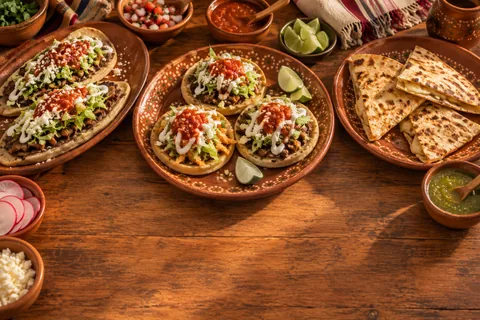
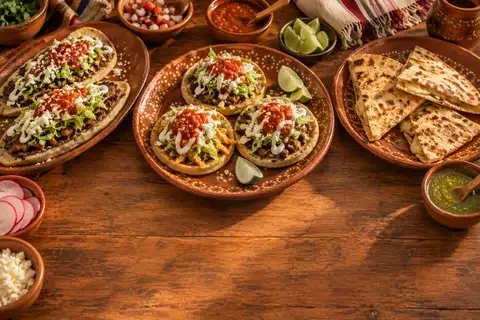
Fotos (#82): servirlas redimensionadas desde el almacenamiento
La portada de una ficha era un PNG de 1.2 MB servido tal cual: en 4G tardaba
26 s en verse. Ahora:

- lib/imagenes.js pide cada foto del almacenamiento por /render/image/ con
  ancho y calidad (Supabase redimensiona y entrega WebP o AVIF), y
  propsDeFoto arma src, srcSet y sizes. Arregla también lo ya subido.
- Lo usan la ficha (portada, favoritos y su visor), la carta de archivo, las
  tarjetas de resultados, historias, publicaciones, avisos, el avatar y las
  miniaturas del panel.
- La portada del sitio sirve hero-640/960/1280/1920.webp en srcset
  (scripts/generar-portada.mjs) y con prioridad alta; las fotos de categoría
  se recomprimen (248 → 161 KB).
- Lo que queda debajo de la portada se pide a 720 como máximo, y el layout
  abre la conexión al almacenamiento con preconnect.

Medido en un Pixel 7 a 1.6 Mbps y 150 ms, contra el build local con la base
real: ficha 26 s → 2.2–2.7 s, portada 5.2–5.9 s → 2.4–2.7 s, carta ~1 s.

Claude-Session: https://claude.ai/code/session_01UvkkXKQJh8aTfASbZcjEjs

diff --git a/lib/imagenes.js b/lib/imagenes.js
@@ -1,0 +1,52 @@
+// Las fotos que suben los dueños y los comensales se guardan tal cual: un PNG
+// de celular pesa más de un mega, y servirlo así en una ficha tardaba más de
+// veinte segundos en 4G (#82). El almacenamiento de Supabase las redimensiona
+// al vuelo: la misma ruta bajo /render/image/ en vez de /object/ devuelve la
+// foto al ancho pedido y, si el navegador lo acepta, en WebP o AVIF. Así se
+// arreglan también las fotos que ya estaban subidas, sin volver a subir nada.
+//
+// Supabase no agranda: pedir 1440 de una foto de 861 px devuelve los 861, así
+// que un ancho de más en el srcset no cuesta nada.
+//
+// Lo que no viene del almacenamiento (las fotos de /public, la vista previa
+// de un archivo recién elegido) pasa sin tocar.
+
+const PUBLICA = "/storage/v1/object/public/";
+const TRANSFORMADA = "/storage/v1/render/image/public/";
+
+export const ANCHOS = [480, 960, 1440];
+export const CALIDAD = 70;
+
+export function esDelAlmacenamiento(url) {
+  return typeof url === "string" && url.includes(PUBLICA);
+}
+
+export function urlTransformada(url, ancho, calidad = CALIDAD) {
+  if (!esDelAlmacenamiento(url)) return url;
+  const u = new URL(url.replace(PUBLICA, TRANSFORMADA));
+  u.searchParams.set("width", String(ancho));
+  u.searchParams.set("quality", String(calidad));
+  return u.toString();
+}
+
+/**
+ * Los atributos de un <img> para una foto: `src`, y `srcSet` y `sizes` cuando
+ * hay más de un ancho. `sizes` dice qué tan ancha se ve la foto en la página;
+ * sin él, el navegador asume que ocupa toda la pantalla.
+ */
+export function propsDeFoto(url, { anchos = ANCHOS, calidad = CALIDAD, sizes } = {}) {
+  if (!url) return {};
+  if (!esDelAlmacenamiento(url)) return { src: url };
+
+  const lista = [...new Set(anchos)].sort((a, b) => a - b);
+  if (lista.length === 1) return { src: urlTransformada(url, lista[0], calidad) };
+
+  // El src es para el navegador que no entiende srcset: el ancho de en medio
+  // se ve bien en un celular y no pesa de más en una computadora.
+  const respaldo = lista[Math.floor((lista.length - 1) / 2)];
+  return {
+    src: urlTransformada(url, respaldo, calidad),
+    srcSet: lista.map((a) => `${urlTransformada(url, a, calidad)} ${a}w`).join(", "),
+    ...(sizes ? { sizes } : {}),
+  };
+}

diff --git a/app/_ficha/favoritos.js b/app/_ficha/favoritos.js
@@ -6,6 +6,7 @@ import Modal from "../panel/modal";
 import { pesos } from "../../lib/precios";
 import { rutaMenuCarta } from "../../lib/slug";
 import { IconoChevron, IconoFlecha } from "./iconos";
+import { propsDeFoto } from "../../lib/imagenes";
 
 // "Favoritos de la casa": las fotos grandes bajo el encabezado.
 //
@@ -58,7 +59,12 @@ export default function Favoritos({ slug, nombre, fotos, hayMenu, hrefMenu }) {
                   f.dishName ? `Ver ${f.dishName}` : `Ver foto ${f.alt ? `de ${f.alt}` : "del platillo"}`
                 }
               >
-                <img src={f.url} alt={f.alt ?? f.dishName ?? ""} loading="lazy" />
+                <img
+                  {...propsDeFoto(f.url, { anchos: [480, 720], calidad: 60, sizes: "(max-width: 720px) 82vw, 33vw" })}
+                  alt={f.alt ?? f.dishName ?? ""}
+                  loading="lazy"
+                  decoding="async"
+                />
                 {f.dishName ? (
                   <span className="fx-favorito-franja">
                     <span className="fx-favorito-texto">
@@ -83,7 +89,10 @@ export default function Favoritos({ slug, nombre, fotos, hayMenu, hrefMenu }) {
       >
         {abierta ? (
           <div className="fx-favorito-visor">
-            <img src={abierta.url} alt={abierta.alt ?? abierta.dishName ?? ""} />
+            <img
+              {...propsDeFoto(abierta.url, { sizes: "(max-width: 720px) 100vw, 720px" })}
+              alt={abierta.alt ?? abierta.dishName ?? ""}
+            />
             <div className="fx-favorito-visor-datos">
               {abierta.dishLabel ? (
                 <span className="fx-favorito-etiqueta">{abierta.dishLabel}</span>

diff --git a/app/page.js b/app/page.js
@@ -1,5 +1,6 @@
 import Link from "next/link";
-import { fotoCocina, fotoEncabezado } from "../lib/fotos";
+import { fotoCocina, propsEncabezado } from "../lib/fotos";
+import { propsDeFoto } from "../lib/imagenes";
 import { supabaseServer } from "../lib/supabase";
 import { conFotos, guardadosDe } from "../lib/busqueda";
 import { catalogoComida, rutaCocina } from "../lib/zonas";
@@ -206,7 +207,10 @@ export default async function Home({ searchParams }) {
 
   // La imagen del encabezado: primero la del archivo, y si no hay, la de un
   // restaurante publicado. Nada de banco de fotos escondido en el código.
-  const fotoPortada = fotoEncabezado() ?? resultados.find((r) => r.foto)?.foto ?? null;
+  // La foto del encabezado es lo más grande de la portada y casi siempre su
+  // LCP: va en srcset y con prioridad alta (#82).
+  const fotoPortada =
+    propsEncabezado() ?? propsDeFoto(resultados.find((r) => r.foto)?.foto, { sizes: "100vw" });
 
   const enPortada = categorias.slice(0, CATEGORIAS_EN_PORTADA);
   // Las zonas del filtro salen de los resultados que hay, no de un catálogo de
@@ -255,7 +259,7 @@ export default async function Home({ searchParams }) {
 
       <header className="portada">
         <div className="portada-fondo" aria-hidden="true">
-          {fotoPortada ? <img src={fotoPortada} alt="" /> : null}
+          {fotoPortada.src ? <img {...fotoPortada} alt="" fetchPriority="high" /> : null}
         </div>
 
         <div className="wrap wrap-ancho portada-inner">

diff --git a/lib/fotos.js b/lib/fotos.js
@@ -54,6 +54,33 @@ export function fotoEncabezado() {
 }
 
 /**
+ * Los atributos del <img> del encabezado: los anchos `hero-<ancho>` que deja
+ * `scripts/generar-portada.mjs`, en srcset. Sin variantes, la foto sola; sin
+ * foto, null.
+ */
+export function propsEncabezado() {
+  const base = fotoEncabezado();
+  if (!base) return null;
+
+  const variantes = [...PORTADA.entries()]
+    .map(([nombre, v]) => [Number(/^hero-(\d+)$/.exec(nombre)?.[1]), v.ruta])
+    .filter(([ancho]) => Number.isFinite(ancho))
+    .sort((a, b) => a[0] - b[0]);
+  if (!variantes.length) return { src: base };
+
+  // En un celular el encabezado va lavado con un velo crema y debajo del
+  // buscador: no hace falta la foto a la densidad completa de la pantalla, y
+  // es lo primero que se pinta (el LCP de la portada). Los 360px le piden al
+  // navegador unos 960 de ancho en una pantalla de densidad 2.6, en vez de
+  // los 1280 que pediría con 100vw (#82).
+  return {
+    src: variantes[Math.floor((variantes.length - 1) / 2)][1],
+    srcSet: variantes.map(([ancho, ruta]) => `${ruta} ${ancho}w`).join(", "),
+    sizes: "(max-width: 600px) 360px, 100vw",
+  };
+}
+
+/**
  * La imagen con la que se comparte el sitio cuando la página no tiene una
  * propia: la portada de WhatsApp, de Facebook o de X.
  *

diff --git a/app/_social/publicaciones.js b/app/_social/publicaciones.js
@@ -21,6 +21,7 @@ import {
 import { IconoBote, IconoComentario, IconoCorazon } from "./iconos";
 import { rutaFicha } from "../../lib/slug";
 import Compartir from "./compartir";
+import { propsDeFoto } from "../../lib/imagenes";
 
 // Las publicaciones: la lista de la ficha ("Novedades de …") y, con otra
 // cabecera, las del feed del comensal. Es el mismo componente porque es la
@@ -234,7 +235,7 @@ export function Publicacion({
       <header className="publicacion-cabeza">
         <span className="publicacion-avatar" aria-hidden="true">
           {publicacion.restaurant_foto ? (
-            <img src={publicacion.restaurant_foto} alt="" />
+            <img {...propsDeFoto(publicacion.restaurant_foto, { anchos: [96] })} alt="" />
           ) : (
             <span>{(nombre ?? "?").slice(0, 1)}</span>
           )}
@@ -283,9 +284,10 @@ export function Publicacion({
           />
         ) : (
           <img
-            src={publicacion.url}
+            {...propsDeFoto(publicacion.url, { anchos: [480, 720], sizes: "(max-width: 680px) 100vw, 640px" })}
             alt={publicacion.body || `Publicación de ${nombre}`}
             loading="lazy"
+            decoding="async"
           />
         )}
       </figure>

diff --git a/app/_social/historias.js b/app/_social/historias.js
@@ -13,6 +13,7 @@ import {
   IconoPausa,
   IconoReproducir,
 } from "./iconos";
+import { propsDeFoto } from "../../lib/imagenes";
 
 // El carrusel de historias y su visor.
 //
@@ -133,7 +134,7 @@ export default function Historias({ historias, nombre, volverA, titulo = "Histor
                     // los diez megas del archivo.
                     <video src={h.url} muted playsInline preload="metadata" />
                   ) : (
-                    <img src={h.url} alt="" loading="lazy" />
+                    <img {...propsDeFoto(h.url, { anchos: [160] })} alt="" loading="lazy" decoding="async" />
                   )}
                 </span>
                 <span className="historia-nombre">{h.titulo ?? tituloDe(h, i)}</span>
@@ -333,7 +334,10 @@ function Visor({ historias, inicio, nombre, alCerrar, alVer }) {
               }}
             />
           ) : (
-            <img src={actual.url} alt={actual.body || `Historia de ${nombre}`} />
+            <img
+              {...propsDeFoto(actual.url, { sizes: "(max-width: 600px) 100vw, 480px" })}
+              alt={actual.body || `Historia de ${nombre}`}
+            />
           )}
 
           {/* Las dos mitades invisibles: tocar a la izquierda regresa, a la

diff --git a/app/avisos/lista.js b/app/avisos/lista.js
@@ -8,6 +8,7 @@ import { textoDeAviso } from "../../lib/resenas";
 import { textoDeAvisoDePedido } from "../../lib/avisos";
 import { IconoCampana, IconoDestello } from "../_social/iconos";
 import { IconoRed } from "../redes-iconos";
+import { propsDeFoto } from "../../lib/imagenes";
 
 // La bandeja. Los avisos se marcan como leídos al abrirla —estar aquí es
 // haberlos visto— pero se siguen enseñando: una bandeja que se vacía sola al
@@ -96,7 +97,7 @@ export default function ListaAvisos({ avisos }) {
         <li key={a.id} className={a.read_at ? "aviso" : "aviso sin-leer"}>
           <Link href={`/${a.restaurant_slug}`}>
             <span className="aviso-media" aria-hidden="true">
-              {a.url ? <img src={a.url} alt="" loading="lazy" /> : <IconoDestello ancho={20} />}
+              {a.url ? <img {...propsDeFoto(a.url, { anchos: [96] })} alt="" loading="lazy" decoding="async" /> : <IconoDestello ancho={20} />}
             </span>
             <span className="aviso-texto">
               <strong>{a.restaurant_name}</strong> publicó una historia.

diff --git a/app/_ficha/carta.js b/app/_ficha/carta.js
@@ -7,6 +7,7 @@ import {
   BotonPedirWhatsapp,
   PedidoProvider,
 } from "./pedido";
+import { propsDeFoto } from "../../lib/imagenes";
 
 // El marcado de la carta vive aparte porque la ficha ya no la pinta: ahora la
 // enseña la página /menu, y el día que vuelva a hacer falta en otro lado no hay
@@ -60,9 +61,14 @@ export default function Carta({ menus, restaurante, destacados = [], pedidos = n
               ) : (
                 <img
                   className="menu-archivo-vista"
-                  src={m.fileUrl}
+                  {...propsDeFoto(m.fileUrl, {
+                    anchos: [960, 1440, 2000],
+                    calidad: 80,
+                    sizes: "(max-width: 600px) 100vw, 560px",
+                  })}
                   alt={`${m.name} de ${restaurante.name}`}
                   loading="lazy"
+                  decoding="async"
                 />
               )}
               <a className="btn btn-sm" href={m.fileUrl} target="_blank" rel="noopener noreferrer">

diff --git a/app/tarjeta.js b/app/tarjeta.js
@@ -2,6 +2,7 @@ import Link from "next/link";
 import { rutaFicha, rutaMenu } from "../lib/slug";
 import { iconoCocina, tonoCocina } from "./cocinas";
 import Favorito from "./favorito";
+import { propsDeFoto } from "../lib/imagenes";
 
 // La tarjeta de un restaurante en una lista. La dibujaba la portada dentro de
 // su propio `map`, y ahora la enseñan también las páginas de /comida: una
@@ -35,7 +36,12 @@ export default function Tarjeta({ r, slugCocina, guardado = false }) {
     <article className="tarjeta" style={{ "--categoria-tono": tonoCocina(slugCocina) }}>
       <div className="tarjeta-foto">
         {r.foto ? (
-          <img src={r.foto} alt="" loading="lazy" />
+          <img
+            {...propsDeFoto(r.foto, { anchos: [480, 960], sizes: "(max-width: 600px) 100vw, 360px" })}
+            alt=""
+            loading="lazy"
+            decoding="async"
+          />
         ) : (
           <span className="tarjeta-sinfoto" aria-hidden="true">
             {icono}

diff --git a/app/_ficha/hero.js b/app/_ficha/hero.js
@@ -6,6 +6,7 @@ import { IconoDestacado } from "../destacados";
 import { IconoPin } from "./iconos";
 import { mensajeDeContacto } from "../../lib/whatsapp";
 import { urlDelSitio } from "../../lib/sitio";
+import { propsDeFoto } from "../../lib/imagenes";
 
 // El encabezado de la ficha: la fachada a un lado y, al otro, el panel oscuro
 // con todo lo que se decide en los primeros tres segundos —qué es, si está
@@ -35,7 +36,11 @@ export default function Hero({
     <header className={portada ? "hero" : "hero hero-sinfoto"} id="inicio">
       {portada ? (
         <figure className="hero-foto">
-          <img src={portada.url} alt={portada.alt ?? `Fachada de ${r.name}`} fetchPriority="high" />
+          <img
+            {...propsDeFoto(portada.url, { sizes: "(max-width: 720px) 100vw, 58vw" })}
+            alt={portada.alt ?? `Fachada de ${r.name}`}
+            fetchPriority="high"
+          />
         </figure>
       ) : null}
 

diff --git a/app/panel/[id]/fotos.js b/app/panel/[id]/fotos.js
@@ -4,6 +4,7 @@ import { useActionState, useRef, useState } from "react";
 import { subirFotos, borrarFoto, editarFoto } from "./actions";
 import { MAX_FOTO_BYTES, TIPOS_FOTO, revisarArchivos } from "../../../lib/subidas";
 import Modal from "../modal";
+import { propsDeFoto } from "../../../lib/imagenes";
 
 const inicial = { status: "idle", message: "" };
 
@@ -156,7 +157,7 @@ function Galeria({ id, fotos, platillos }) {
       <ul className="galeria">
         {fotos.map((f) => (
           <li key={f.id} className={f.is_visible === false ? "galeria-foto es-oculta" : "galeria-foto"}>
-            <img src={f.url} alt={f.alt ?? ""} loading="lazy" />
+            <img {...propsDeFoto(f.url, { anchos: [480] })} alt={f.alt ?? ""} loading="lazy" decoding="async" />
             {f.dish_name ? (
               <span className="galeria-nombre">
                 {f.is_featured ? <em>★</em> : null}

diff --git a/app/panel/planes/page.js b/app/panel/planes/page.js
@@ -29,6 +29,7 @@ import {
 import { planesParaElegir } from "../../../lib/opciones-de-pago";
 import { cancelarPlan } from "./actions";
 import ElegirPlan from "./elegir-plan";
+import { propsDeFoto } from "../../../lib/imagenes";
 
 export const metadata = { title: "Planes — Menú Abierto" };
 
@@ -302,7 +303,7 @@ export default async function Planes({ searchParams }) {
                     <div className="restaurante-plan-cabeza">
                       <div className="restaurante-plan-foto" aria-hidden="true">
                         {foto ? (
-                          <img src={foto} alt="" loading="lazy" width={128} height={88} />
+                          <img {...propsDeFoto(foto, { anchos: [256] })} alt="" loading="lazy" width={128} height={88} />
                         ) : (
                           <IconoTienda ancho={28} />
                         )}
